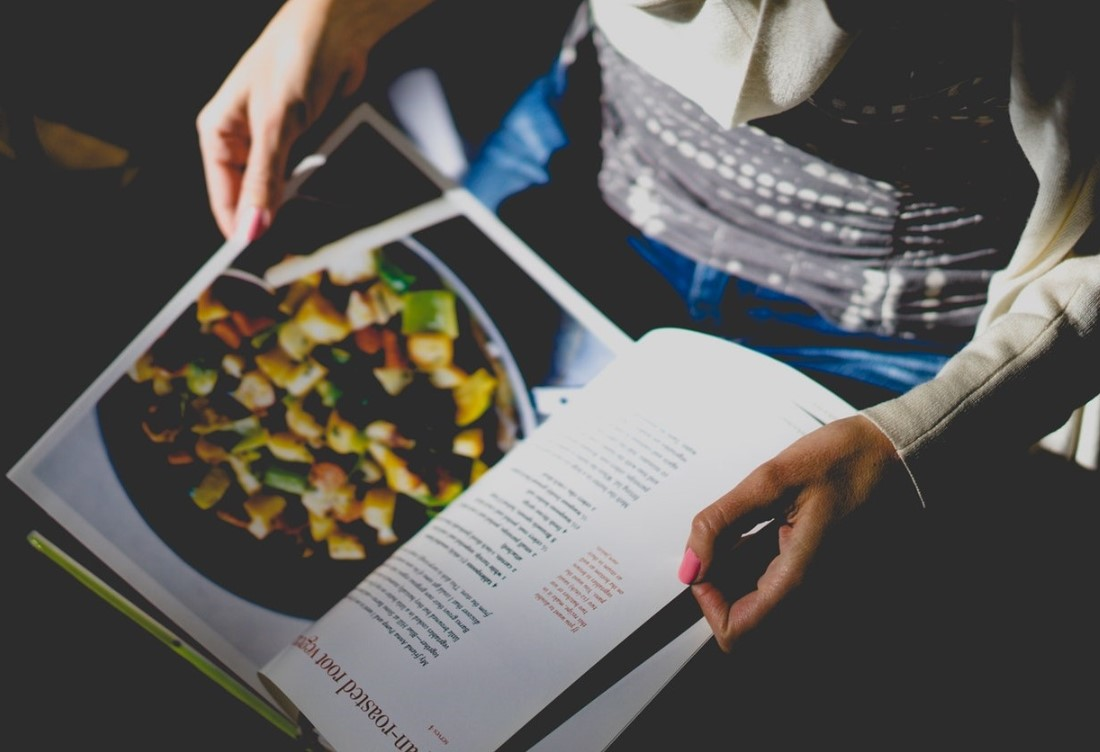
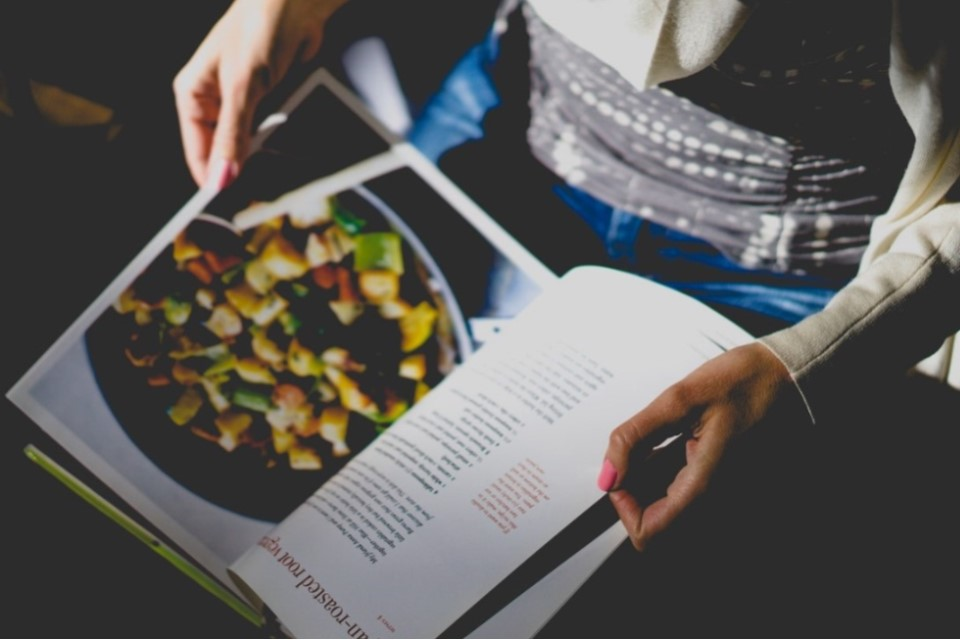
Resized images to match each other and nearly finished with tablet screen size style changes

diff --git a/index.html b/index.html
@@ -72,20 +72,18 @@
 
 
   <!-- ========== Header ========== -->
-  <div class="header">
-    <header class="homepage-header">
-      <h1>Take Charge Of Your Life</h1>
-      <h2>Eat Good. Feel Good. Look Good.</h2>
-      <p>Are you ready to eat, feel, and look your best? Let me walk you through the ambiguity of healthy eating and show you how great life can be when you are <em>plant strong</em>.</p>
+  <div class="header"></div>
+  <header class="homepage-header">
+    <h1>Take Charge Of Your Life</h1>
+    <h2>Eat Good. Feel Good. Look Good.</h2>
+    <p class="first-text">Are you ready to eat, feel, and look your best? Let me walk you through the ambiguity of healthy eating and show you how great life can be when you are <em>plant strong</em>.</p>
 
-      <p>Not sure how to get started? Sign up for my FREE monthly newsletter below.</p>
-      <form class="header-form">
-        <input id="emailNewsletter" class="newsletterEmail" type="text" name="emailNewsletter" placeholder="Email"/>
-        <input id="submitForNewsletter" class="newsletterSubmit" type="submit" />
-      </form>
-    <header>
-  </div>
-
+    <p>Not sure how to get started? Sign up for my FREE monthly newsletter below.</p>
+    <form class="header-form">
+      <input id="emailNewsletter" class="newsletterEmail" type="text" name="emailNewsletter" placeholder="Email"/>
+      <input id="submitForNewsletter" class="newsletterSubmit" type="submit" />
+    </form>
+  </header>
 
 
 
@@ -99,7 +97,7 @@
       </div>
 
       <div class="col-lg-6 col-md-12 col-sm-12">
-        <p class="margin-top-10px">Plants are filled with nutrients, vitamins, minerals, and everything else you need to live a vibrant, healthy life. As your coach I’ll equip you with the resources, recipes and food hacks to help you create your plant-strong lifestyle in the most delicious way.</p>
+        <p class="first-text margin-top-10px">Plants are filled with nutrients, vitamins, minerals, and everything else you need to live a vibrant, healthy life. As your coach I’ll equip you with the resources, recipes and food hacks to help you create your plant-strong lifestyle in the most delicious way.</p>
       </div>
     </div>
 
@@ -133,7 +131,7 @@
       </div>
              
       <div class="col-lg-6 col-md-6 col-sm-12">
-        <p class="margin-top-10px">As a Certified Holistic Health and Marathon Running Coach I provide ongoing one-on-one programs that focus on working <em>with</em> you to make sustainable lifestyle changes that will get you back the energy and confidence you desire.</p>
+        <p class="first-text margin-top-10px">As a Certified Holistic Health and Marathon Running Coach I provide ongoing one-on-one programs that focus on working <em>with</em> you to make sustainable lifestyle changes that will get you back the energy and confidence you desire.</p>
       </div>
     </div>
 
@@ -215,7 +213,7 @@
       </div>
     </div>
 
-    <p class="margin-top-10px text-center">Either in-person or remotely, with my fully customizable programs I'll support you each step on your journey to a healthier, happier, and plant-strong self.</p>
+    <p class="first-text margin-top-10px text-center">Either in-person or remotely, with my fully customizable programs I'll support you each step on your journey to a healthier, happier, and plant-strong self.</p>
 
     <div class="button">
       <a href="#">
@@ -262,7 +260,6 @@
 
   <!-- ========== Footer ========== -->
   <footer class="container-fluid footer-bgcolor footer">
-
     <div class="row">
       <div class="col-lg-4 col-md-4 col-sm-4 col-xs-12">
         <p>614-467-0421</p>
@@ -294,7 +291,6 @@
         </ul>
       </div>
     </div>
-
   </footer>
 </div>
 

diff --git a/css/stylesheet.css b/css/stylesheet.css
@@ -112,32 +112,27 @@ div.learn-more:hover, div.learn-more:active {
 div.header {
 	height: 300px;
 	width: 100%;
-	margin: 0 0 430px;
 	padding: 10px 15px;
+	margin-bottom: 20px;
 	background-color: #000;
 	background-image: url(../img/stephslaton_41.jpg);
 	background-size: cover;
 	background-repeat: no-repeat;
 	background-position: -105px center;
-	position: relative;
 }
 
 header.homepage-header {
 	width: 100%;
 	padding: 0 15px;
-	position: absolute;
-	bottom: -395px;
-	left: 0;
-	right: 0;
 }
 
-div.header h1 {
+header.homepage-header h1 {
 	font-weight: bold;
-	font-size: 26px;
+	font-size: 24px;
 }
 
-div.header h2 {
-	font-size: 20px;
+header.homepage-header h2 {
+	font-size: 18px;
 	margin-bottom: 15px;
 }
 
@@ -147,7 +142,11 @@ header em {
 
 form.header-form {
 	position: relative;
-
+	margin-bottom: 40px;
+	width: 100%;
+	max-width: 300px;
+	margin-left: auto;
+	margin-right: auto;
 }
 
 input.newsletterEmail {
@@ -284,23 +283,93 @@ img.iin-img {
 
 
 /* ========== Media Queries ========== */
-
-
-@media screen and (max-width: 991px) {
-	.display-none {
-		display: none;
-	}
-
-	.margin-top-added-40px {
-		margin-top: 40px;
+@media screen and (min-width: 305px) {
+	div.header {
+		height: 300px;
+		background-position: center center;
 	}
 }
 
-@media screen and (max-width: 575px) {
-	.margin-top-added-40px-too {
+@media screen and (min-width: 350px) {
+	form.header-form {
 		margin-top: 40px;
+		margin-bottom: 45px;
+	}
+
+	header.homepage-header h1 {
+		font-size: 32px;
+	}
+
+	header.homepage-header h2 {
+		font-size: 24px;
+	}
+
+	p.first-text {
+		margin-top: 20px;
+	}
+
+	div.button {
+		margin-top: 40px;
+		margin-bottom: 20px;
+	}
+
+	div.why-plant-strong h2, div.coach-steph h2 {
+		margin: 10px 0 25px;
+	}
+
+	div.testimonials {
+		padding: 45px 35px;
+		margin-top: 55px;
+		margin-bottom: 35px;
+	}
+
+	div.homepage-programs h2 {
+		margin: 15px 0 30px;
+	}
+
+	div.homepage-programs div.button {
+		margin-bottom: 50px;
+	}
+
+	div.homepage-iin h2 {
+		margin-top: 15px;
 	}
 }
 
+@media screen and (min-width: 450px) {
+	header.homepage-header h1 {
+		font-size: 36px;
+	}
 
+	header.homepage-header h2 {
+		font-size: 28px;
+	}
 
+	p.first-text {
+		margin-top: 30px;
+	}
+
+	header.homepage-header p, div.why-plant-strong p, div.coach-steph p, div.homepage-programs p, div.homepage-iin p {
+		padding-right: 35px;
+		padding-left: 35px;
+	}
+
+	div.swiper-slide p {
+		padding: 5px 0;
+	}
+}
+
+@media screen and (min-width: 535px) {
+	div.header {
+		height: 400px;
+		background-position: center center;
+	}
+
+	header.homepage-header h1 {
+		font-size: 42px;
+	}
+
+	header.homepage-header h2 {
+		font-size: 34px;
+	}	
+}

diff --git a/css/navbar-footer.css b/css/navbar-footer.css
@@ -141,6 +141,26 @@ footer .social-media i {
 	}
 }
 
+@media screen and (min-width: 625px) {
+	.burger-menu-border {
+		position: absolute;
+		display: none;
+	}
+
+	div.nav-links ul {
+		display: block;
+		top: -41px;
+		padding: 12px 0 0;
+	}
+
+	div.nav-links ul li {
+		display: inline-block;
+		height: 40.406px;
+		padding: 0;
+		margin: 0 20px;
+	}
+}
+
 @media screen and (max-width: 595px) {
 	.social-media li {
 	list-style-type: none;
